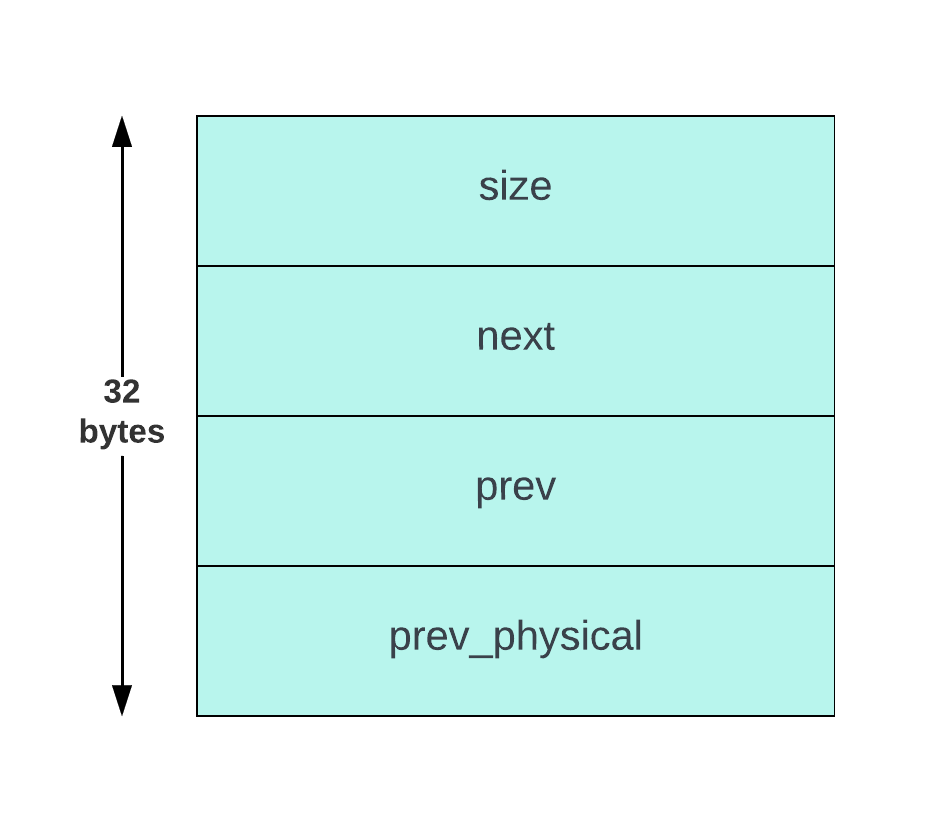
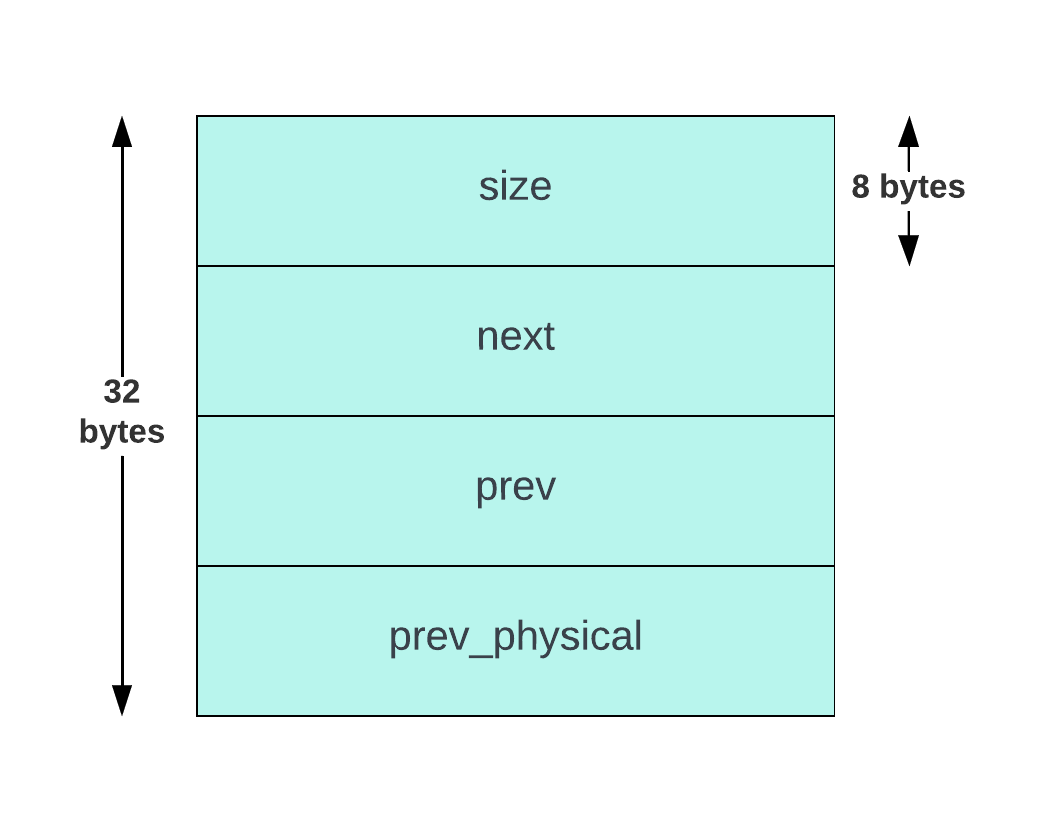
Consistent usage of optimized.

diff --git a/text/adaptations.tex b/text/adaptations.tex
@@ -2,11 +2,11 @@
 % Generalized and specific.
 In this section we describe the adaptations that have been made to the reference implementation in order to make the allocator more suited toward being used in ZGC.
 
-\subsection{General and Specific Allocator}
+\subsection{General and Optimized Allocator}
 
-The first and most important adaptation is re-implementing the reference implementation in a configurable manner to allow for the allocator to be extended while still maintaining a general version of it. The reason behind this is to allow using the allocator in an all-purpose manner while also having an optimized, or altered, version for a more specific purpose. Having both a general and specific version also allows for measuring the efficacy of any adaptation in the specific implementation to the general one.
+The first and most important adaptation is re-implementing the reference implementation in a configurable manner to allow for the allocator to be extended while still maintaining a general version of it. The reason behind this is to allow using the allocator in an all-purpose manner while also having an optimized, or altered, version for a more specific purpose. Having both a general and optimized version also allows for measuring the efficacy of any adaptation in the optimizedd implementation to the general one.
 
-However, making optimizations might require changes that also changes the general version in a way that does not with a reference implementation. Such trade-offs, which will be discussed in more detail later in this section, could be reasonable when supporting multiple versions of the allocator.
+However, making optimizations might require changes that also changes the general version in such a way that it deviates from the reference implementation. Such trade-offs, which will be discussed in more detail later in this section, could be reasonable when supporting multiple versions of the allocator.
 
 \subsection{Allocation Size for Small and Medium Pages}
 
@@ -47,7 +47,7 @@ Most allocators start with an unused chunk of memory, allowing them to track all
 
 The data that represents what the underlying memory contains is the livemap-data that is stored in pages in ZGC. The livemap contain, at set times, the latest information about what the memory contain and can thus be used to update the allocator's representation. The most important aspect to note about the livemap is that it contains the latest information, which allows for batch updates to be made, which can be taken into consideration when designing the API around re-constructing the internal representation.
 
-The construction of the allocator's representation involves a two-step process that extends the allocator's API. Initially, the representation must be cleared so that any previous data that might be inaccurate is not present. Additionally, when clearing, a block is allocated to cover the entirety of the underlying memory. Subsequently, the user invokes a function to free blocks within specified ranges, allowing to selectively ``carve'' segments free memory from the initially allocated block. When freeing ranges of blocks, we only consider three cases: 
+The construction of the allocator's representation involves a two-step process that extends the allocator's API. Initially, the representation must be cleared so that any previous data that might be inaccurate is not present. Additionally, when clearing, a block is allocated to cover the entirety of the underlying memory. Subsequently, the user invokes a function to free blocks within specified ranges, allowing to selectively ``carve'' segments free memory from the initially allocated block. When freeing ranges of blocks, we only consider four cases: 
 
 \begin{enumerate}
     \item The range is strictly within an allocated block and does not start nor end on the block's edges.
@@ -56,7 +56,7 @@ The construction of the allocator's representation involves a two-step process t
     \item The range starts at the block's start and ends inside the block.
 \end{enumerate}
 
-We will not consider cases where the range overlaps multiple blocks and start or end on the edge of a block that is not the last or the first block in the physical order. This is because if a user wants to free a consecutive range of 64 bytes for example, they should always free the entire 64 byte range directly and not the first 32 bytes followed by the next 32 bytes. This is done to reduce the complexity of the implementation without affecting functionality for the user significantly.
+We will not consider cases where the range overlaps multiple blocks and start or end on the edge of a block that is not the last or the first block in the physical order. This is because if a user wants to free a consecutive range of 64 bytes for example, they should always free the entire 64 byte range directly and not the first 32 bytes followed by the next 32 bytes. This reduces complexity of the implementation without significantly impacting user functionality.
 
 \subsection{Deferred Coalescing of Blocks}
 
@@ -86,7 +86,7 @@ next = get\_next\_block(current)\;
 
 If the pointer to the previous physical block is no longer needed, we can redesign the header for it to be removed in the optimized version and still kept in the general version.
 
-The default case for the block header is shown for the general version in Figure~\ref{fig:blockheader_large}. Here, the block header consists of the size of the block, the next and prev pointers for free-list linking and a pointer to the previous physical block. This is very similar to the reference implementation, with the change that the next and prev pointers have been moved to right after the size field. The reason for this is that it allows us to share the same header implementation for both the general and specific allocators, but only using some fields in the specific version. The major downside of this, which also deviates from the reference implementation, is that all allocations require a 32 byte header.
+The default configuration of the block header is illustrated in Figure~\ref{fig:blockheader_large} for the general version. In this setup, the block header includes the block size, next and previous pointers for free-list linking, and a pointer to the previous physical block. This closely resembles the reference implementation, except for the repositioning of the next and prev pointers immediately after the size field. This adjustment allows us to use the same header implementation for both the general and optimized allocators, utilizing only certain fields in the optimized version. However, this approach introduces a notable deviation from the reference implementation. In this new design, every allocation requires a 32-byte header since information about free blocks cannot be stored in the unused portions of free blocks. Since we do not need to store any data in the unused parts of free blocks, the minimum allocation size can be arbitrarily set.
 
 % TODO: Disadventageous for small allocations, will have to be measured in practice.
 

diff --git a/text/tlsf.tex b/text/tlsf.tex
@@ -9,11 +9,11 @@ Blocks that are allocated using the allocator are stored in two doubly-linked li
 \begin{figure}[H]
     \centering
     \includegraphics[width=0.65\textwidth]{figures/blockheader_reference.png}
-    \caption{Representation of free and allocated block headers, as described and created by M. Masmano et al.~\cite{TLSF}.}
+    \caption{Representation of free and allocated block headers, as illustrated by M. Masmano et al.~\cite{TLSF}.}
     \label{fig:blockheader_reference}
 \end{figure}
 
-This thesis intends to explore adapting TLSF for integration into a garbage collector. The work of the TLSF authors primarily focusses on explicit low-level allocation primitives, with no explicit consideration for garbage collection. Therefore, investigating how TLSF can be adapted to fit into the context of garbage collection represents a crucial and promising avenue for advancing its development.
+The work of the TLSF authors primarily focuses on explicit low-level allocation primitives, with no explicit consideration for garbage collection. Therefore, investigating how TLSF can be adapted to fit into the context of garbage collection represents a crucial and promising avenue for advancing its development.
 
 %%% Local Variables:
 %%% mode: latex
